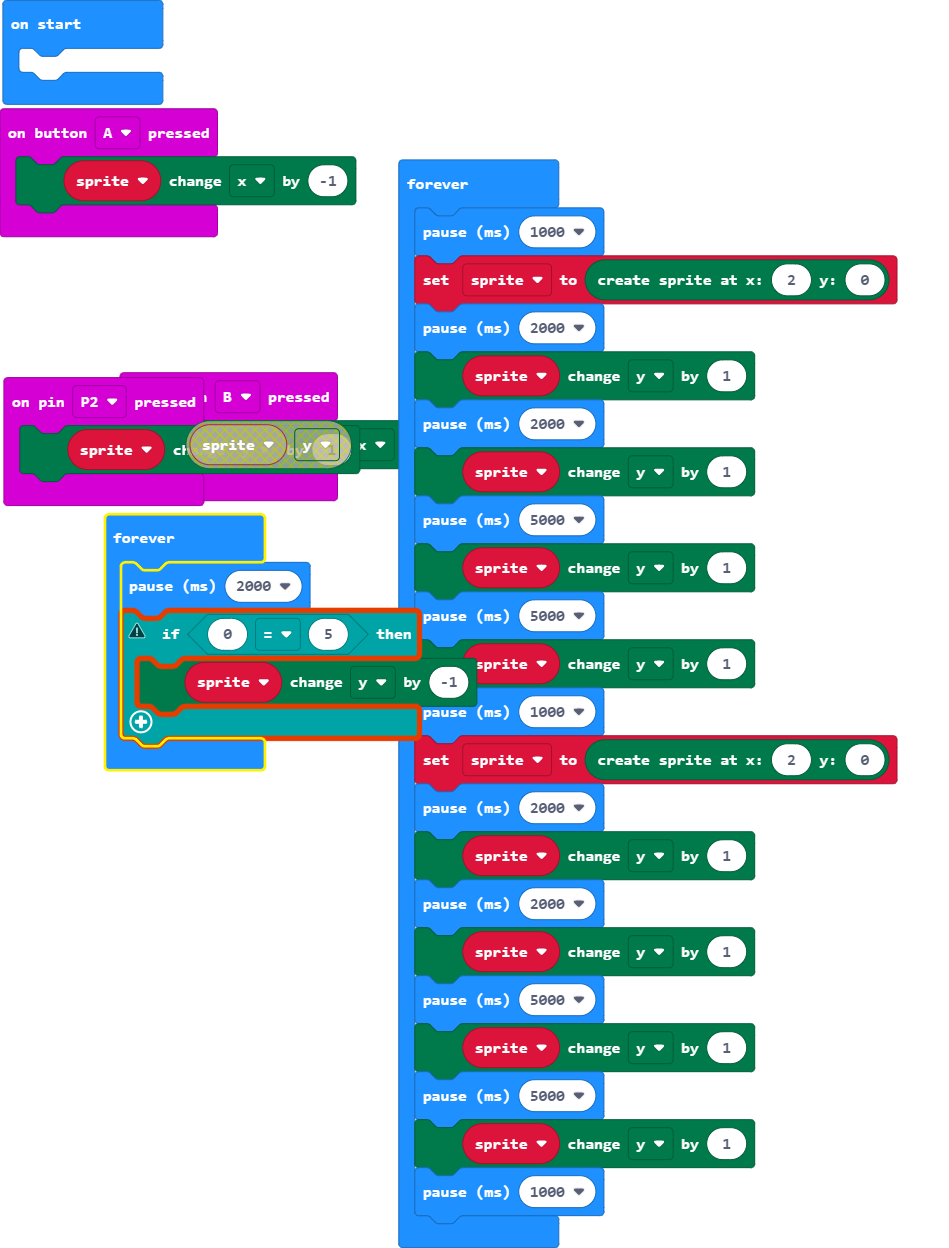
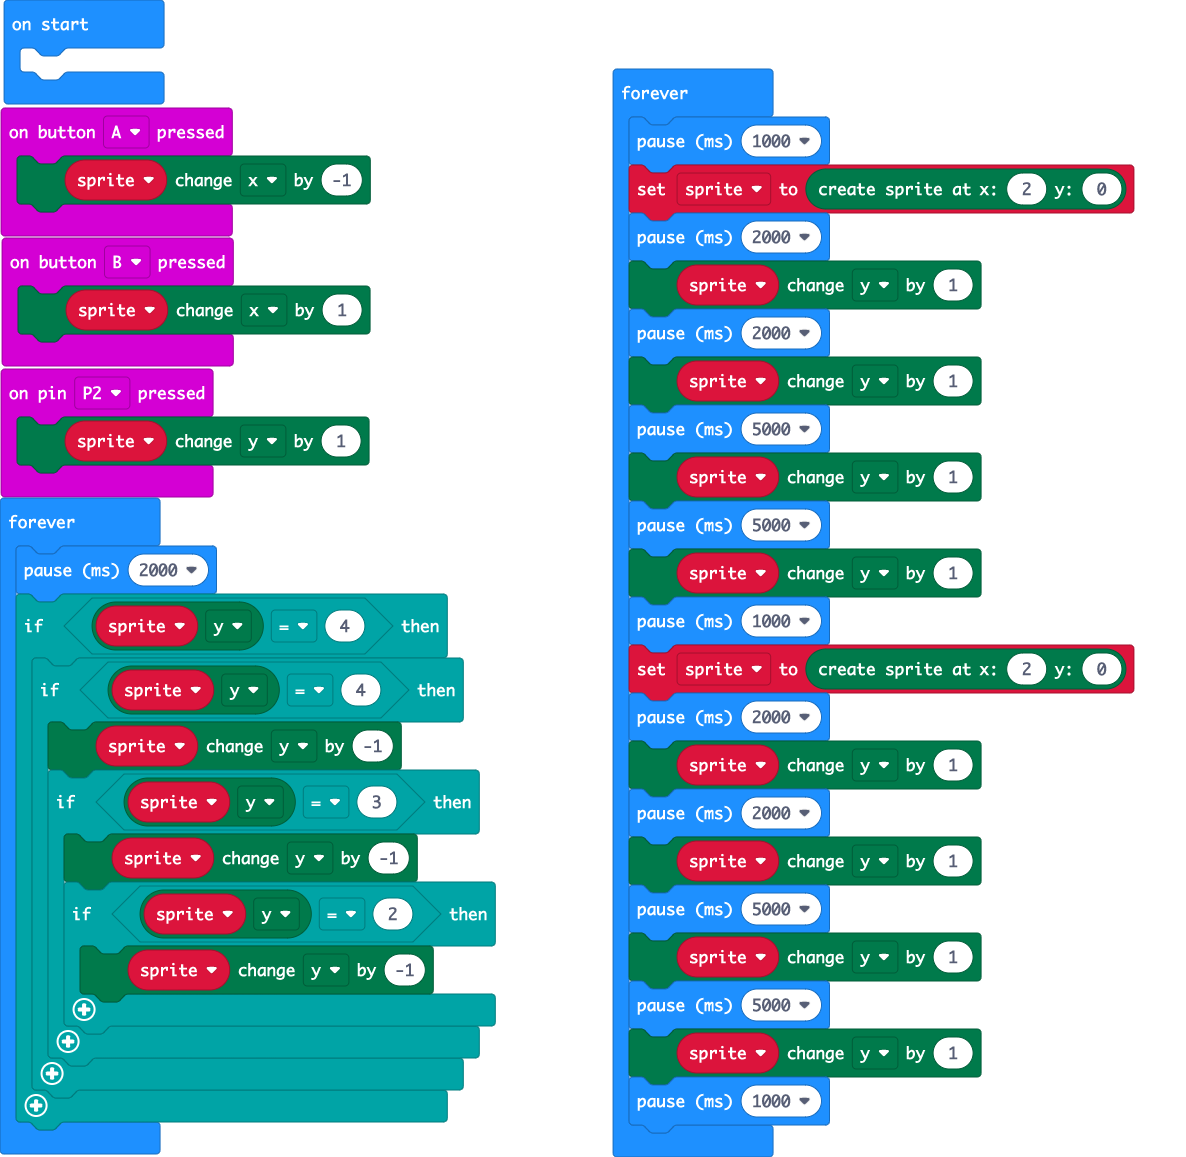
Update main.blocks, main.ts

diff --git a/main.ts b/main.ts
@@ -33,7 +33,15 @@ basic.forever(function () {
 })
 basic.forever(function () {
     basic.pause(2000)
-    if (0 == 5) {
-        sprite.change(LedSpriteProperty.Y, -1)
+    if (sprite.get(LedSpriteProperty.Y) == 4) {
+        if (sprite.get(LedSpriteProperty.Y) == 4) {
+            sprite.change(LedSpriteProperty.Y, -1)
+            if (sprite.get(LedSpriteProperty.Y) == 3) {
+                sprite.change(LedSpriteProperty.Y, -1)
+                if (sprite.get(LedSpriteProperty.Y) == 2) {
+                    sprite.change(LedSpriteProperty.Y, -1)
+                }
+            }
+        }
     }
 })
